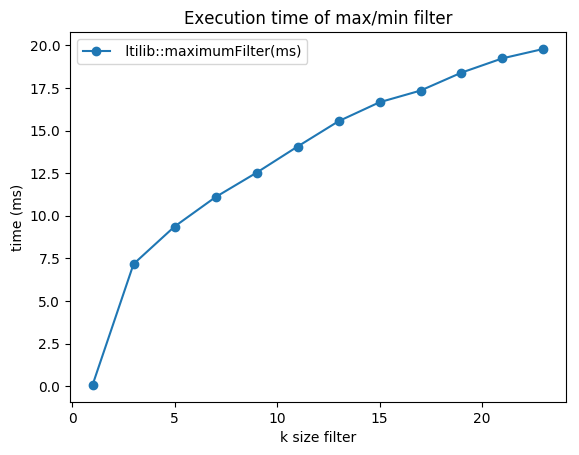
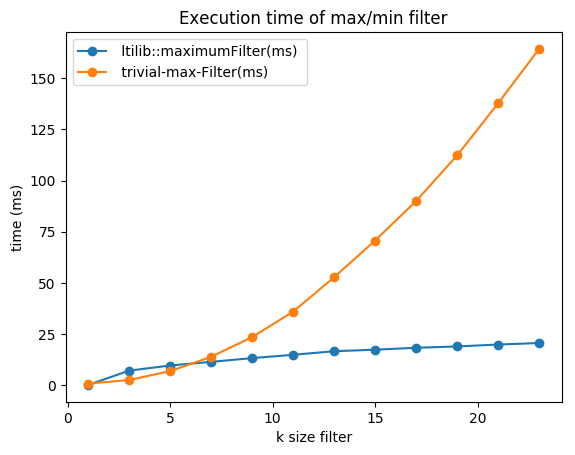
trivial added

diff --git a/Proyecto/src/seq/ltilib-ref-main.cpp b/Proyecto/src/seq/ltilib-ref-main.cpp
@@ -71,7 +71,7 @@ typedef lti::viewer2D viewer_type;
  using std::endl;
 
 
-//#include "project.hpp"
+#include "trivial.hpp"
 
 /*
  * Help
@@ -164,7 +164,7 @@ int main(int argc, char* argv[]) {
   lti::maximumFilter<lti::ubyte> mfilt(3);
 
   double acc_samp=0;
-  std::cout << "wsize , tiempo(ms)" << std::endl;
+  std::cout << "wsize , ltilib::maximumFilter(ms) , trivial-max-Filter(ms)" << std::endl;
   for (int wsize =1; wsize<25; wsize+=2){
     mfilt.setSquareMaskWindow(wsize);
     mfilt.updateParameters();
@@ -176,8 +176,18 @@ int main(int argc, char* argv[]) {
       elapsed_seconds = end - start;
       acc_samp+=elapsed_seconds.count();
     }
-    std::cout << wsize << " , " << acc_samp << std::endl;
+    std::cout << wsize << " , " << acc_samp/100;
+    acc_samp=0;
+    for(int i=0; i<100; i++){
+      start = std::chrono::system_clock::now();
+      maxFilterTrivial(res,img,wsize);
+      end = std::chrono::system_clock::now();
+      elapsed_seconds = end - start;
+      acc_samp+=elapsed_seconds.count();
+    }
+    std::cout << " , " << acc_samp/100 << std::endl;
   }
+
 
 
 

diff --git a/Proyecto/src/seq/trivial.cpp b/Proyecto/src/seq/trivial.cpp
@@ -1,0 +1,32 @@
+#include "trivial.hpp"
+#include <cstdint>
+
+void maxFilterTrivial(lti::channel8 &dst, const lti::channel8 &src, const int wsize)
+{
+
+    int width = src.columns();
+    int height = src.rows();
+    int se_mid_len = (wsize-1)/2;
+
+    for(int j=0; j<height; j++)
+    {
+        for(int i=0; i<width; i++)
+        {
+            uint8_t max = src[j][i];
+
+            for(int a=i-se_mid_len; a<i+se_mid_len; a++)
+            {
+                for(int32_t b=j-se_mid_len; b<j+se_mid_len; b++)
+                {
+                    uint8_t value=max;
+                    if(a >= 0 && a < width && b >= 0 && b < height)
+                        value = src[b][a];
+                    if(value > max)
+                        max = value;
+                }
+            }
+            dst[j][i] = max;
+        }
+    }
+
+}

diff --git a/Proyecto/src/seq/trivial.hpp b/Proyecto/src/seq/trivial.hpp
@@ -1,0 +1,4 @@
+
+#include <ltiChannel8.h>
+
+void maxFilterTrivial(lti::channel8 &dst, const lti::channel8 &src, const int wsize);
